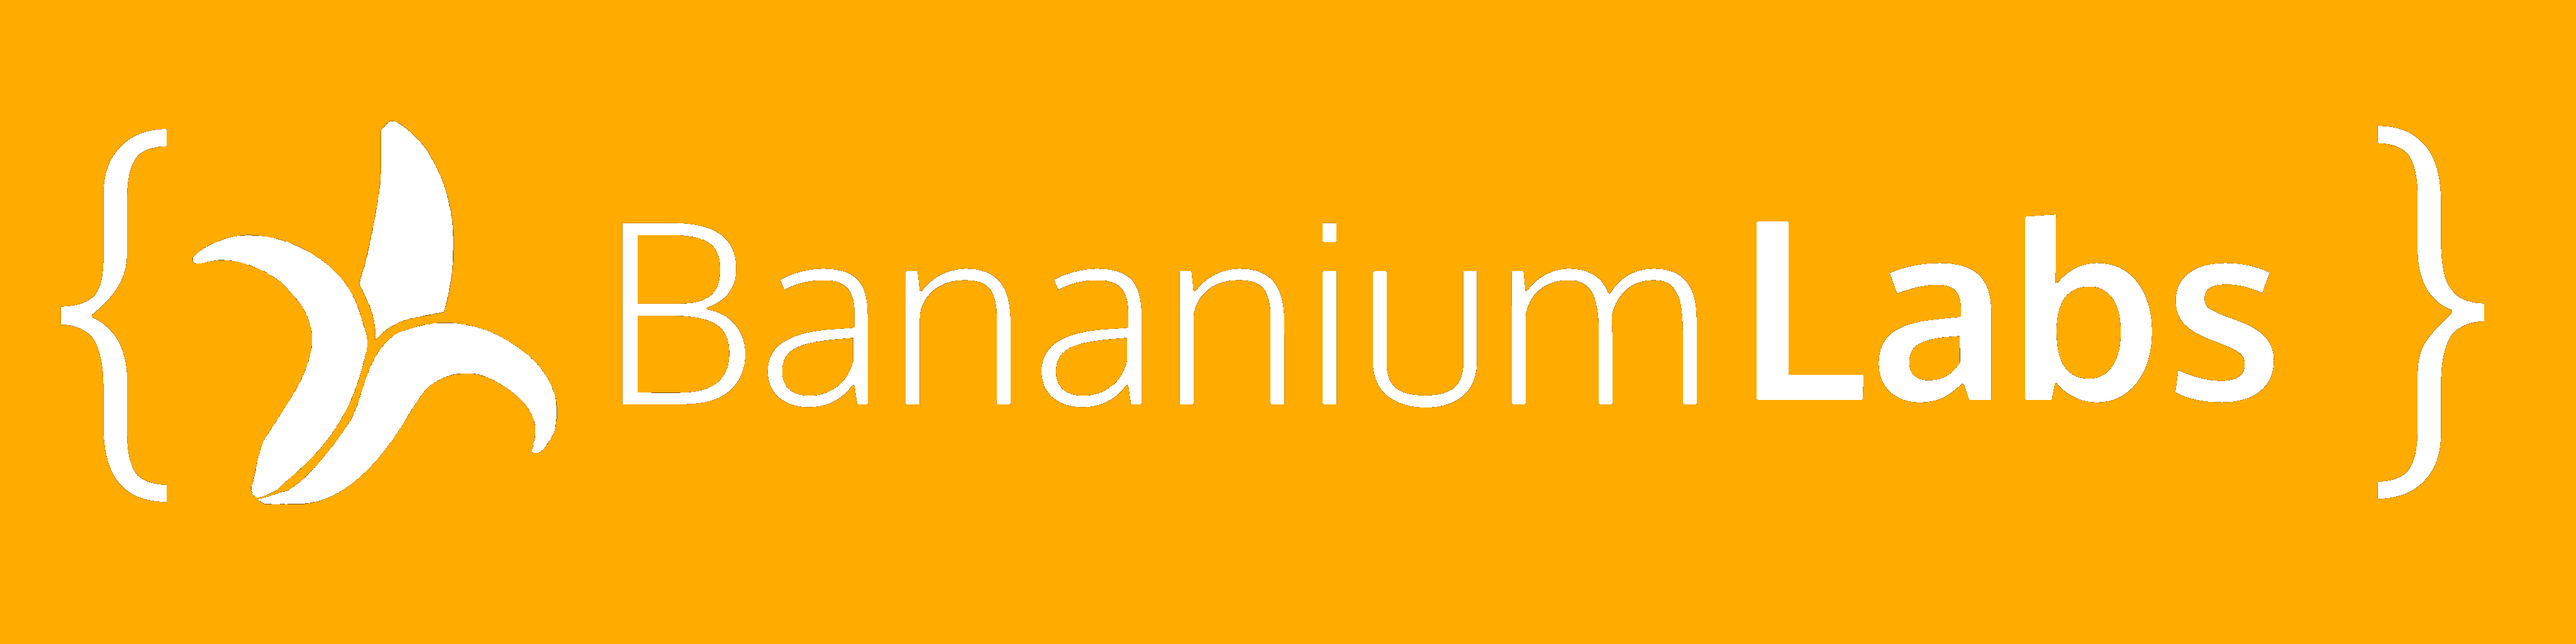
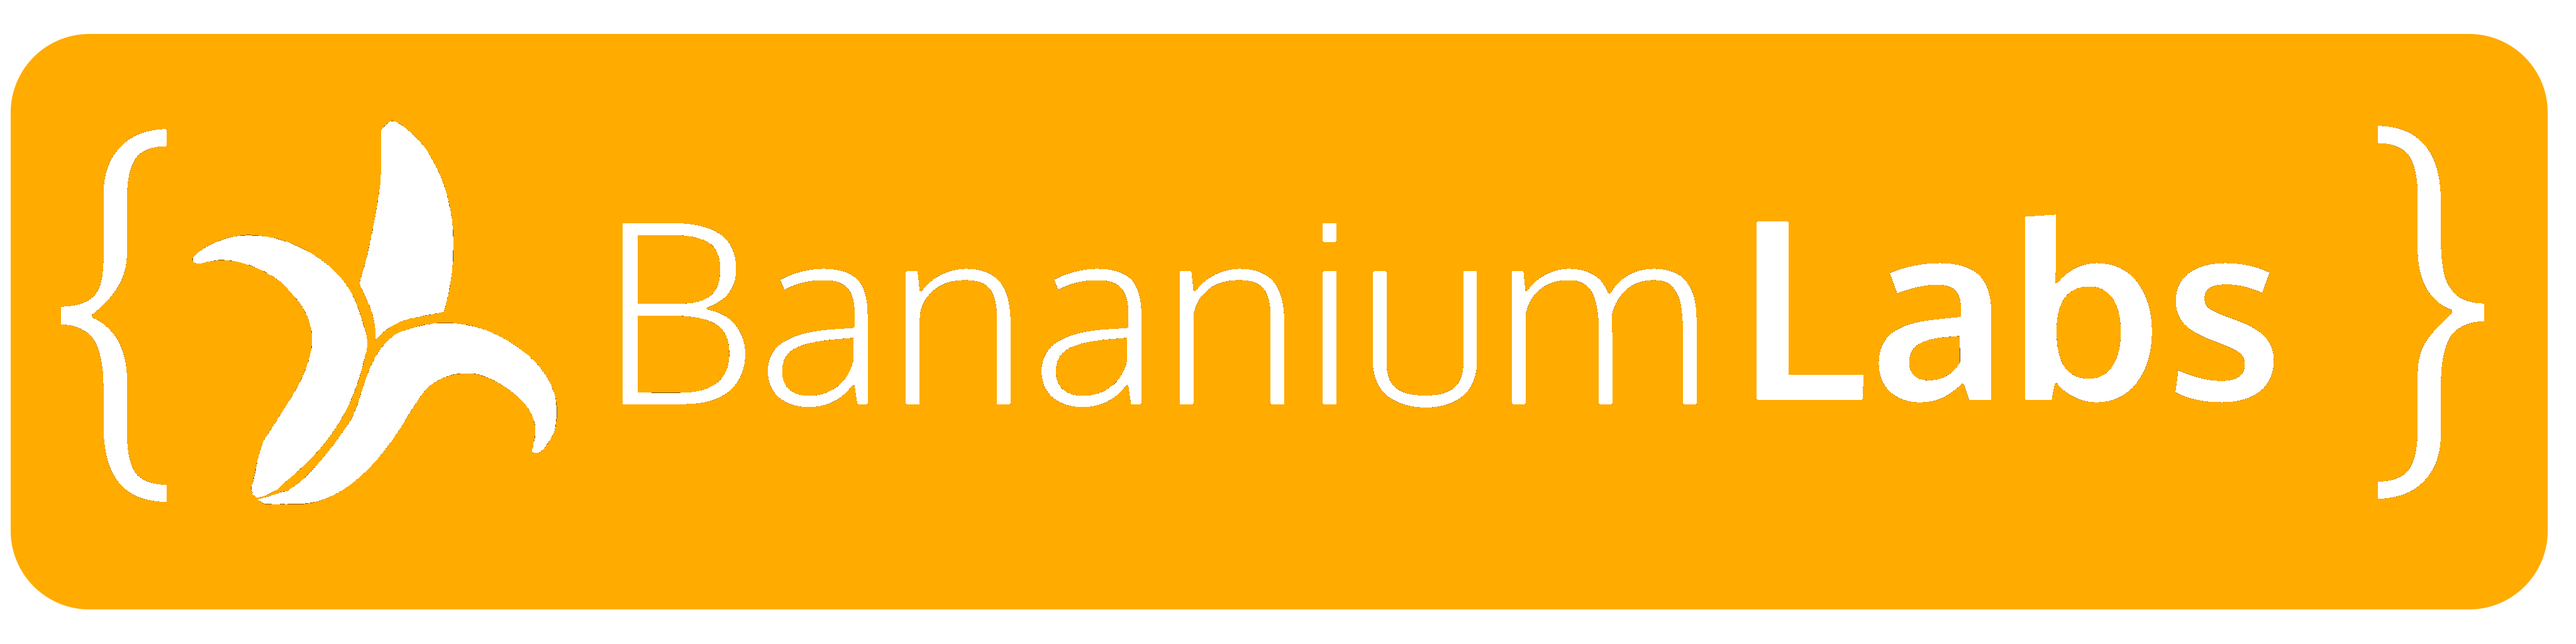
Fix image references

Changed region(s): [[0.0, 0.0, 1.0, 1.0]]

diff --git a/header.html b/header.html
@@ -4,7 +4,7 @@
     <nav>
         <div class="nav-wrapper amber accent-4">
             <a href="#banner" class="brand-logo">
-                <img src="img/icon.png" class="responsive-img" style="height:auto; max-width: 4rem; margin-left: 1rem">
+                <img src="img/icon-round-v4.png" class="responsive-img" style="height:auto; max-width: 4rem; margin-left: 1rem">
             </a>
             <a href="#" data-activates="mobile-demo" class="button-collapse">
                 <i class="material-icons black-text">menu</i>
@@ -30,7 +30,7 @@
                 <nav>
                     <div class="nav-wrapper amber accent-4">
                         <a href="#banner" class="brand-logo">
-                            <img src="img/icon.png" class="responsive-img" style="height:auto; max-width: 4rem; margin-left: 1rem">
+                            <img src="img/icon-round-v4.png" class="responsive-img" style="height:auto; max-width: 4rem; margin-left: 1rem">
                         </a>
                     </div>
                 </nav>

diff --git a/index.html b/index.html
@@ -11,8 +11,8 @@
     <meta name="viewport" content="width=device-width, initial-scale=1">
 
     <link rel="manifest" href="site.webmanifest">
-    <link rel="apple-touch-icon" href="img/icon.png">
-    <link rel="icon" href="img/icon.png">
+    <link rel="apple-touch-icon" href="img/icon-round-v4.png">
+    <link rel="icon" href="img/icon-round-v4.png">
 
     <link rel="stylesheet" href="css/normalize.css">
     <link rel="stylesheet" href="css/main.css">
@@ -24,7 +24,7 @@
 </head>
 
 <div id="loading" class="fill valign-wrapper">
-    <img src="img/icon.png" class="responsive-img" id="loading-logo">
+    <img src="img/icon-round-v4.png" class="responsive-img" id="loading-logo">
 </div>
 
 <header id="header"></header>
@@ -40,7 +40,7 @@
 
         <div class="row">
             <div class="col s12">
-                <img src="img/banner2.png" class="responsive-img">
+                <img src="img/banner-v4-clear.png" class="responsive-img">
             </div>
         </div>
         <div class="row">
